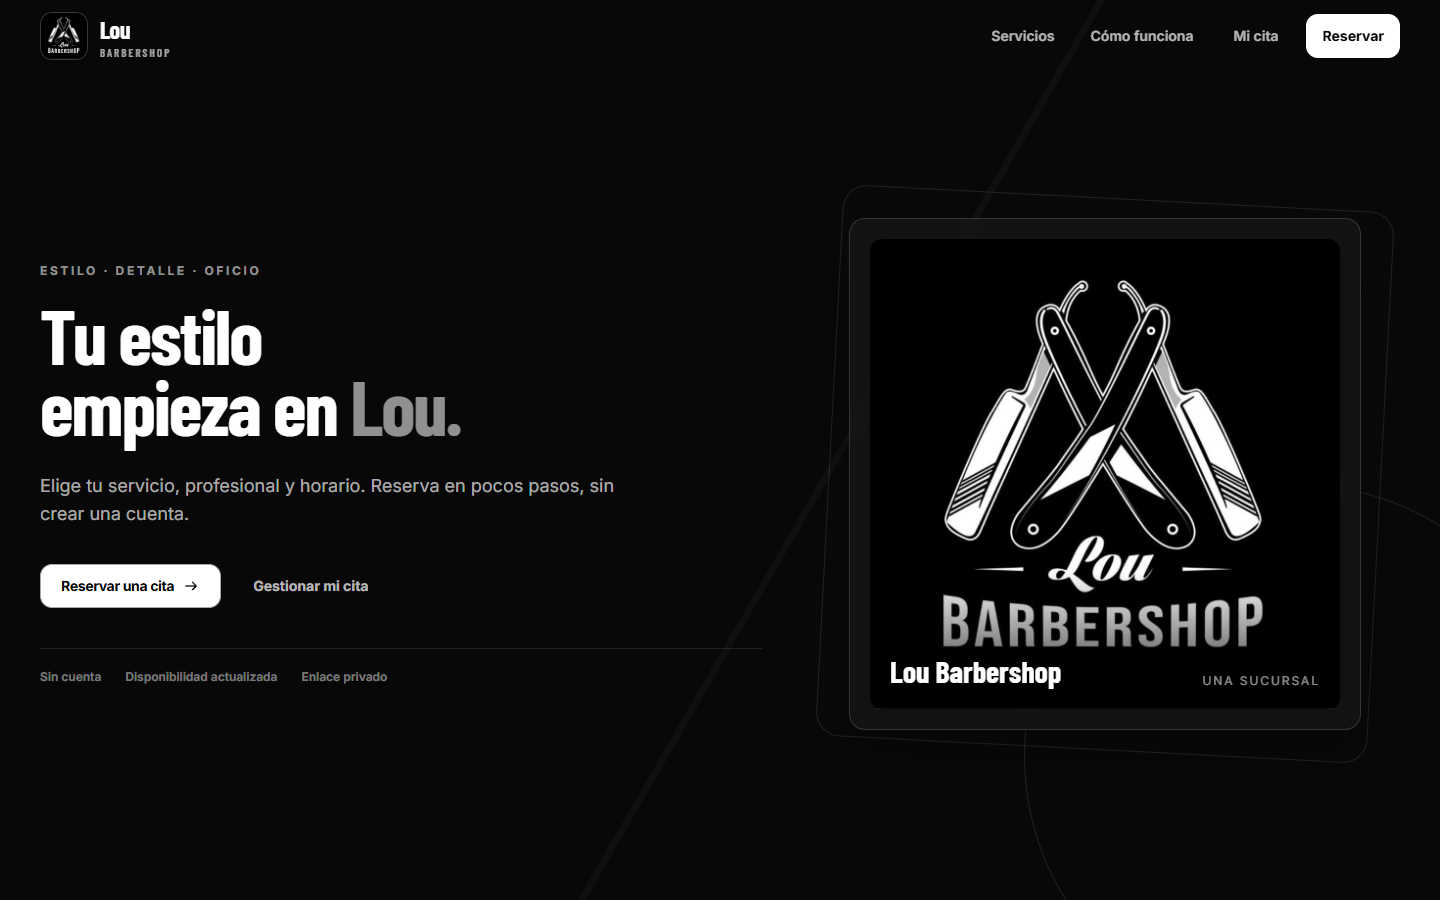
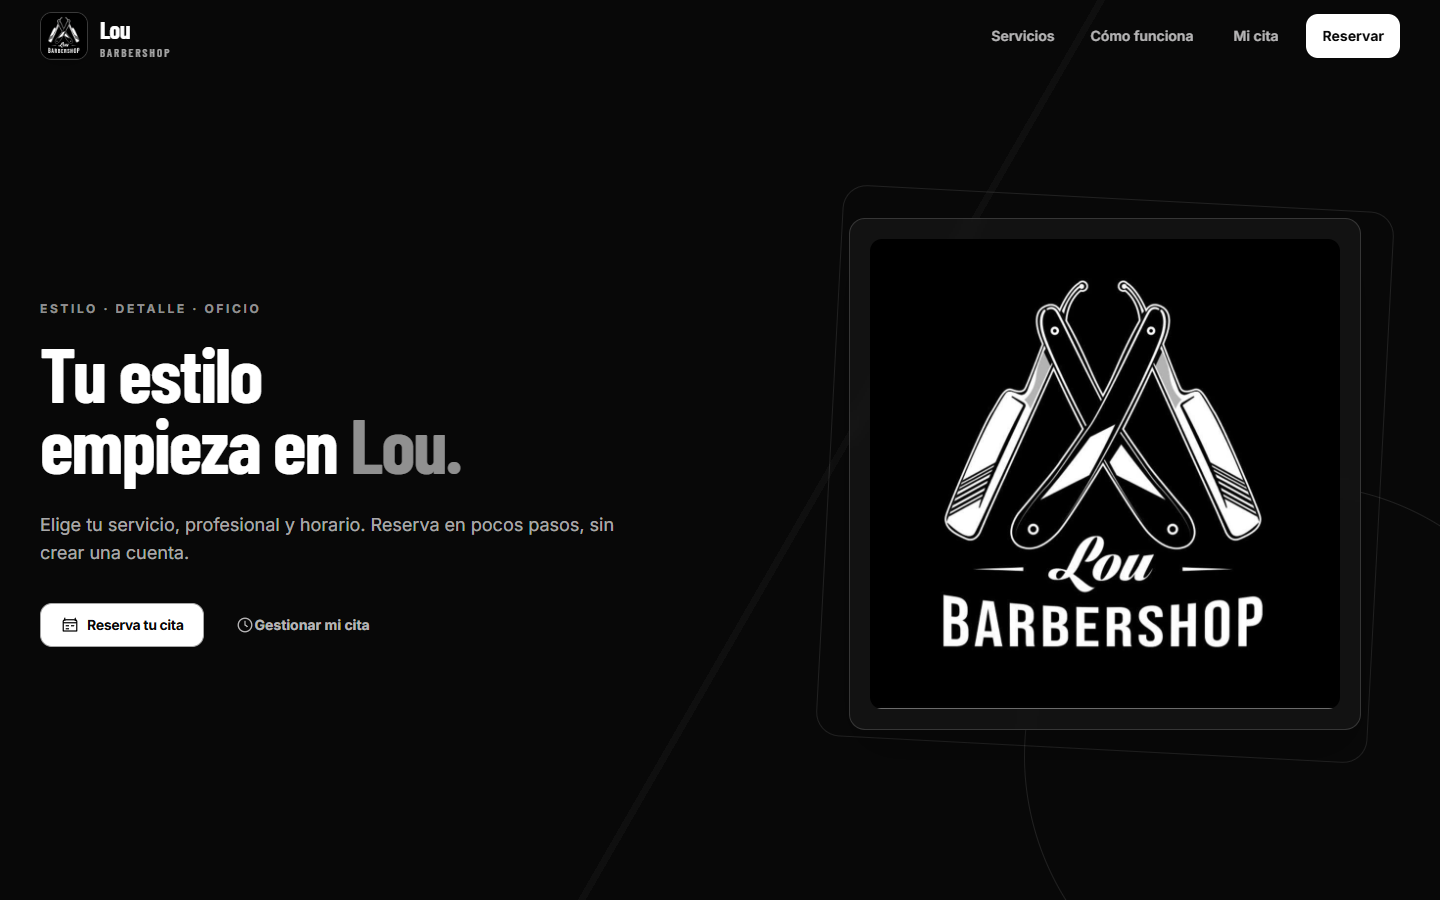
fix(web): refine landing hero and services

diff --git a/src/frontend/src/presentation/pages/LandingPage.tsx b/src/frontend/src/presentation/pages/LandingPage.tsx
@@ -52,22 +52,18 @@ export const LandingPage = () => {
                 to="/reservar"
                 viewTransition
               >
-                Reservar una cita
-                <AppIcon name="arrow-right" size={18} />
+                <AppIcon name="calendar" size={18} />
+                Reserva tu cita
               </Link>
               <Link
                 className="inline-flex min-h-11 items-center justify-center rounded-xl px-5 py-2.5 text-sm font-bold text-white/70 transition-colors hover:bg-white/10 hover:text-white"
                 to="/mi-cita"
                 viewTransition
               >
+                <AppIcon name="clock" size={18} />
                 Gestionar mi cita
               </Link>
             </div>
-            <ul className="mt-10 flex flex-wrap gap-x-6 gap-y-3 border-t border-white/10 pt-5 text-xs font-semibold text-white/45">
-              <li>Sin cuenta</li>
-              <li>Disponibilidad actualizada</li>
-              <li>Enlace privado</li>
-            </ul>
           </m.div>
 
           <m.div
@@ -84,12 +80,6 @@ export const LandingPage = () => {
                 src="/brand/lou-logo.jpg"
                 alt=""
               />
-              <div className="absolute inset-x-5 bottom-5 flex items-end justify-between rounded-b-xl bg-gradient-to-t from-black/90 to-transparent px-5 pt-20 pb-5">
-                <span className="font-display text-3xl font-bold">Lou Barbershop</span>
-                <span className="text-xs tracking-[0.16em] text-white/55 uppercase">
-                  Una sucursal
-                </span>
-              </div>
             </div>
           </m.div>
         </div>
@@ -141,35 +131,43 @@ export const LandingPage = () => {
           </div>
         )}
         {catalog.data && (
-          <div className="grid gap-3">
+          <div className="grid gap-4 md:grid-cols-2 xl:grid-cols-3">
             {catalog.data.services.slice(0, 6).map((service, index) => (
               <m.article
                 key={service.id}
-                className="group grid grid-cols-[auto_1fr_auto] items-center gap-4 rounded-xl border border-lou-fog bg-white p-4 shadow-lou-sm transition-[transform,border-color,box-shadow] duration-200 hover:-translate-y-0.5 hover:border-lou-steel hover:shadow-lou-lg sm:gap-7 sm:p-6"
+                className="group flex min-h-64 flex-col overflow-hidden rounded-2xl border border-lou-fog bg-white shadow-lou-sm transition-[transform,border-color,box-shadow] duration-200 hover:-translate-y-1 hover:border-lou-steel hover:shadow-lou-lg"
                 initial={{ opacity: 0, y: 10 }}
                 whileInView={{ opacity: 1, y: 0 }}
                 viewport={{ once: true }}
                 transition={{ delay: Math.min(index * 0.04, 0.2) }}
               >
-                <span className="font-display text-2xl font-bold text-lou-steel">
-                  {String(index + 1).padStart(2, '0')}
-                </span>
-                <div>
-                  <h3 className="m-0 font-display text-2xl font-bold sm:text-3xl">
+                <div className="flex items-center justify-between border-b border-lou-fog px-6 py-4">
+                  <span className="font-display text-sm font-bold tracking-[0.16em] text-lou-graphite/45">
+                    SERVICIO {String(index + 1).padStart(2, '0')}
+                  </span>
+                  <span className="grid size-10 place-items-center rounded-xl bg-lou-ink text-white">
+                    <AppIcon name="scissors" size={20} />
+                  </span>
+                </div>
+                <div className="flex flex-1 flex-col p-6">
+                  <h3 className="m-0 font-display text-3xl leading-none font-bold sm:text-4xl">
                     {service.name}
                   </h3>
                   {service.description && (
-                    <p className="my-1 hidden text-sm text-lou-graphite/65 sm:block">
+                    <p className="mt-3 text-sm leading-6 text-lou-graphite/65">
                       {service.description}
                     </p>
                   )}
-                  <small className="text-xs font-semibold text-lou-graphite/50">
-                    {service.durationMinutes} minutos
-                  </small>
+                  <div className="mt-auto flex items-end justify-between gap-4 border-t border-lou-fog pt-5">
+                    <span className="inline-flex items-center gap-2 text-xs font-semibold text-lou-graphite/55">
+                      <AppIcon name="clock" size={17} />
+                      {service.durationMinutes} min
+                    </span>
+                    <strong className="font-display text-3xl leading-none tabular-nums sm:text-4xl">
+                      {centsToBolivianos(service.priceCents)}
+                    </strong>
+                  </div>
                 </div>
-                <strong className="font-display text-2xl tabular-nums sm:text-3xl">
-                  {centsToBolivianos(service.priceCents)}
-                </strong>
               </m.article>
             ))}
           </div>

diff --git a/src/frontend/src/presentation/pages/LandingPage.test.tsx b/src/frontend/src/presentation/pages/LandingPage.test.tsx
@@ -35,7 +35,7 @@ describe('LandingPage', () => {
     )
 
     expect(screen.getByRole('heading', { name: 'Tu estilo empieza en Lou.' })).toBeInTheDocument()
-    expect(screen.getAllByRole('link', { name: /Reservar/ })[0]).toHaveAttribute(
+    expect(screen.getByRole('link', { name: 'Reserva tu cita' })).toHaveAttribute(
       'href',
       '/reservar',
     )
@@ -45,6 +45,7 @@ describe('LandingPage', () => {
     )
     expect(await screen.findByText('Corte clásico')).toBeInTheDocument()
     expect(screen.getByText('Bs 70,00')).toBeInTheDocument()
+    expect(screen.getByText('SERVICIO 01')).toBeInTheDocument()
     expect(screen.getByRole('heading', { name: 'Tres pasos. Sin vueltas.' })).toBeInTheDocument()
     expect(screen.getByText('Reserva', { selector: 'strong' })).toBeInTheDocument()
     expect(screen.getByText('Llega', { selector: 'strong' })).toBeInTheDocument()

diff --git a/docs/49-acta-avance-rediseño-tailwind.md b/docs/49-acta-avance-rediseño-tailwind.md
@@ -30,6 +30,17 @@ Revisión solicitada al dueño:
 
 **Decisión pendiente:** `APROBADO` o `CAMBIOS SOLICITADOS`. Una vez aprobado el checkpoint 01, se presenta el `02 — Reserva pública`.
 
+### Correcciones solicitadas para el checkpoint 01
+
+El dueño solicitó el 10 de septiembre de 2026:
+
+1. retirar del hero la repetición `Sin cuenta`, `Disponibilidad actualizada` y `Enlace privado`;
+2. retirar de la composición de imagen los textos superpuestos `Lou Barbershop` y `Una sucursal`, porque ya forman parte del logo;
+3. reemplazar las filas de servicios por un diseño de tarjetas nuevo;
+4. eliminar la flecha de la acción principal y acompañar `Reserva tu cita` y `Gestionar mi cita` con iconos gráficos convencionales.
+
+Las cuatro correcciones quedaron aplicadas. Los servicios ahora usan una cuadrícula responsive de tarjetas editoriales con identificador, icono de tijeras, descripción, duración y precio en zonas separadas. Las acciones del hero usan iconos SVG de calendario y reloj; no emplean emojis ni caracteres decorativos.
+
 ### Segunda presentación del checkpoint 00
 
 Cambios solicitados por el dueño el 10 de septiembre de 2026 y aplicados:
@@ -113,6 +124,7 @@ El cambio permanece limitado a presentación y composición. No modifica reglas 
 - [Checkpoint 01 — hero de landing en escritorio](assets/design/lou-checkpoint-01-landing-desktop.png)
 - [Checkpoint 01 — servicios en escritorio](assets/design/lou-checkpoint-01-services-desktop.png)
 - [Checkpoint 01 — hero de landing en móvil](assets/design/lou-checkpoint-01-landing-mobile.png)
+- [Checkpoint 01 — servicios rediseñados en móvil](assets/design/lou-checkpoint-01-services-mobile.png)
 - [Checkpoint 01 — proceso de reserva en móvil](assets/design/lou-checkpoint-01-process-mobile.png)
 
 Las capturas anteriores usan fixtures locales. Las tres capturas nuevas de editor y atención usan respuestas ficticias aisladas mediante Playwright porque el runtime activo no conservaba los usuarios sembrados; no modifican la base ni contienen datos reales.
@@ -133,6 +145,7 @@ Las capturas anteriores usan fixtures locales. Las tres capturas nuevas de edito
 - Playwright: el mismo nodo DOM del sidebar permaneció montado al navegar `Inicio → Agenda → Atención y cobro`; consola final sin errores ni advertencias con fixtures aislados completos.
 - Checkpoint 01: Prettier, ESLint, Oxlint, TypeScript estricto y build Vite/PWA aprobados; 19 archivos y 41 pruebas Vitest aprobadas.
 - Checkpoint 01: Playwright verificó la landing a 1440 × 900 y 390 × 844 con catálogo ficticio aislado; los accesos internos desplazan a la sección correcta, la cabecera pasa de `transparent` a `solid`, el ancho de contenido móvil coincide con el viewport y la consola termina con cero errores y cero advertencias.
+- Revisión del checkpoint 01: las cuatro correcciones solicitadas se verificaron nuevamente a 1440 × 900 y 390 × 844; las tarjetas forman tres columnas en escritorio y una columna en móvil, sin desbordamiento horizontal, errores ni advertencias de consola.
 
 El único `401` observado correspondió a un primer intento manual de QA con una contraseña de fixture equivocada; el segundo acceso con la credencial correcta fue exitoso. No es un defecto de la aplicación.
 
